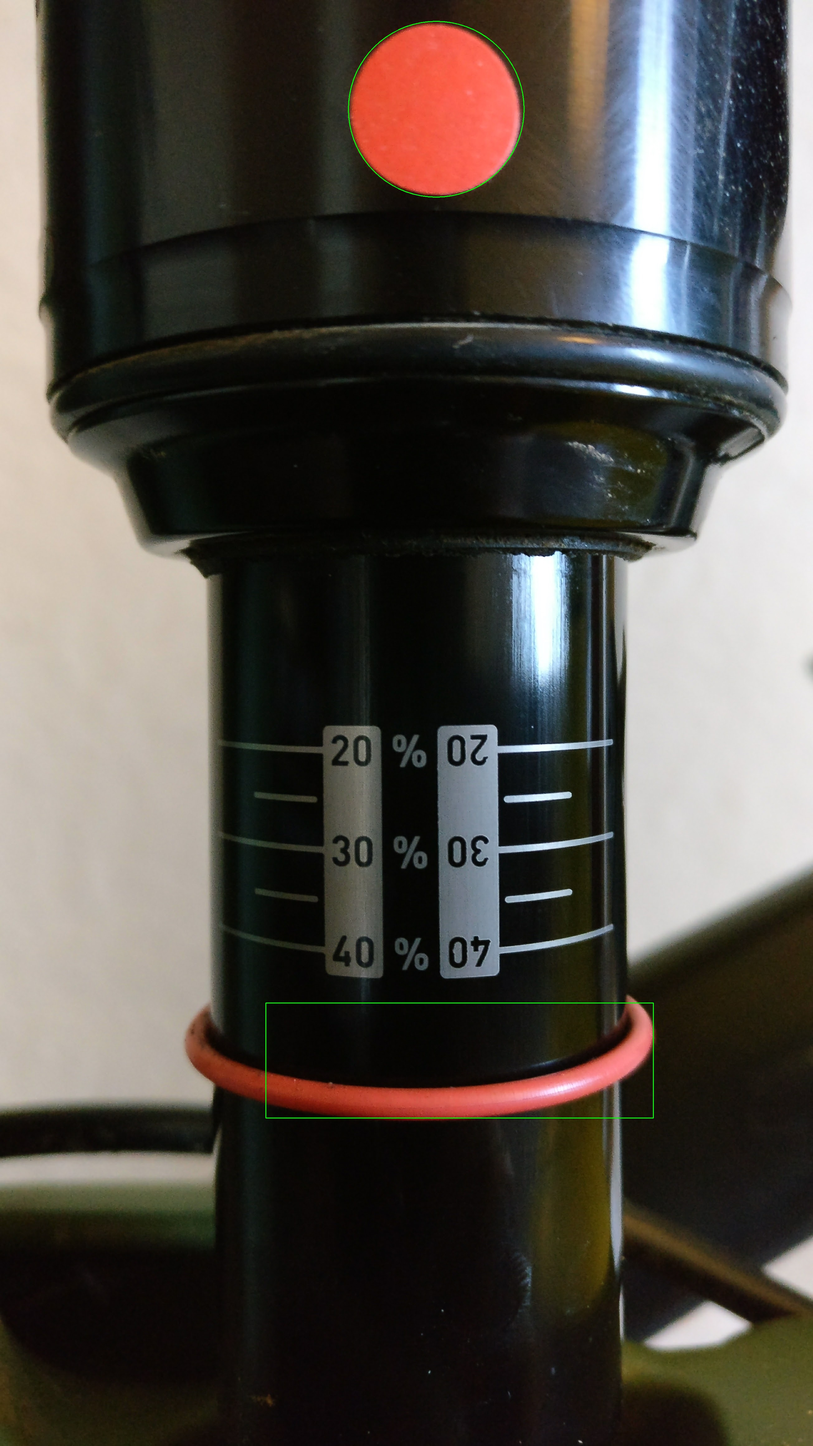
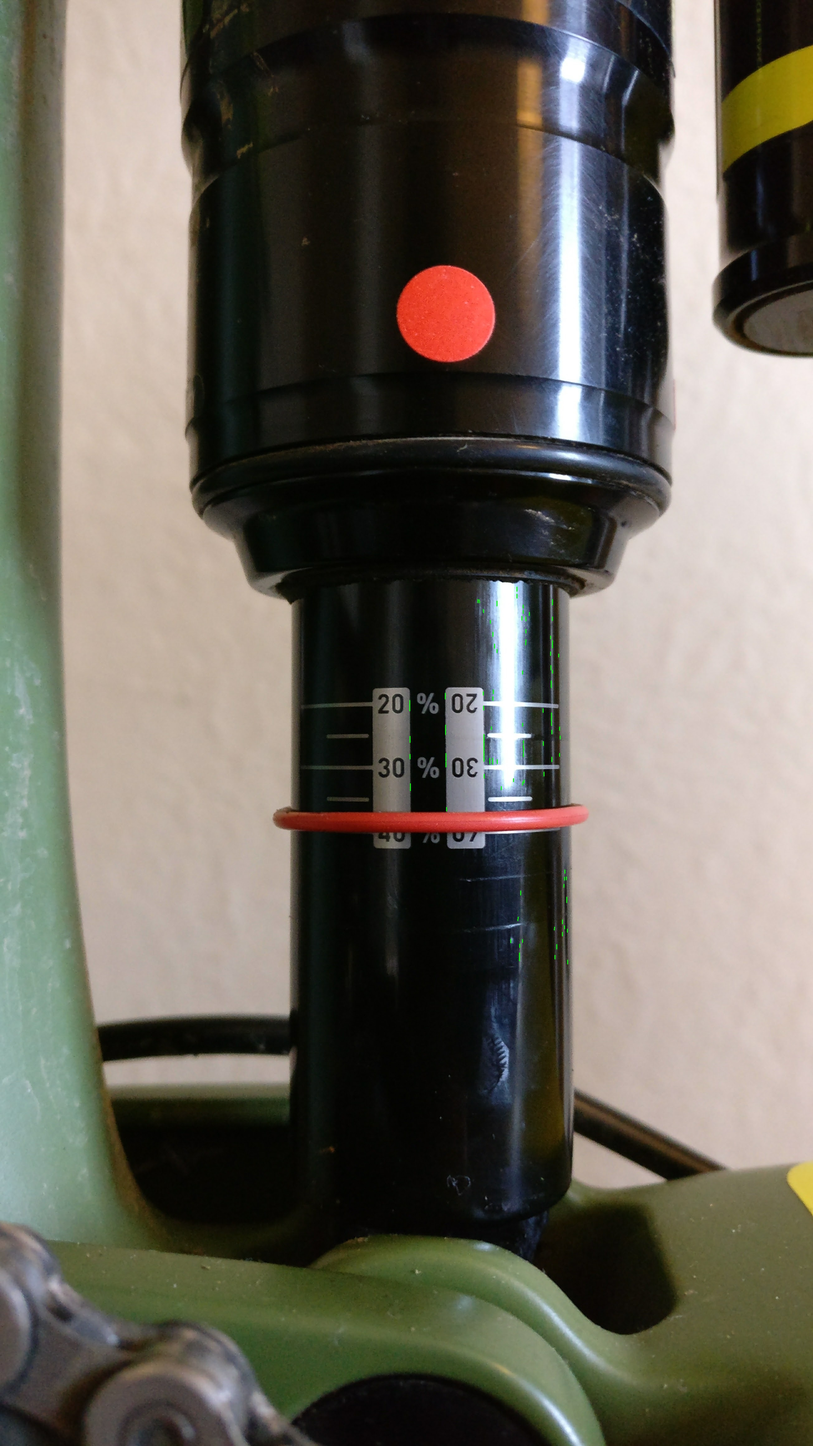
Small adjustments for improved measuring

diff --git a/testing_scripts/measure.py b/testing_scripts/measure.py
@@ -9,11 +9,11 @@ def show_image(image, wait_time):
     except cv2.error as e:
         print e.message
 
-image = cv2.imread('../images/100_ref_new.jpg')
+image = cv2.imread('../images/150_ref_new.jpg')
 gray_scaled = cv2.cvtColor(image, cv2.COLOR_BGR2GRAY)
 blurred = cv2.GaussianBlur(gray_scaled, (5, 5), 0)
-edged = cv2.Canny(blurred, 0, 100, apertureSize=3)
-
+edged = cv2.Canny(blurred, 10, 90, apertureSize=3)
+cv2.imwrite('edged.jpg', edged)
 min_line_length = 1000
 max_line_gap = 10
 
@@ -30,5 +30,4 @@ for x1, y1, x2, y2 in lines[0]:
         y_min = min(y1, y_min)
         y_max = max(y2, y_max)
         cv2.line(image, (x1, y1), (x2, y2), (0,255,0), 2)
-print y_max - y_min
 cv2.imwrite('output.jpg',image)

diff --git a/program/image_processor.py b/program/image_processor.py
@@ -17,7 +17,7 @@ def show_image(image, wait_time):
 
 
 class ImageProcessor:
-    REF_POINT_KNOWN_WIDTH = 10.0
+    REF_POINT_KNOWN_WIDTH = 9.5
     image_path = None
     edged_image = None
     quantified_image = None
@@ -33,7 +33,7 @@ class ImageProcessor:
         image = cv2.imread(self.image_path)
         gray_scaled = cv2.cvtColor(image, cv2.COLOR_BGR2GRAY)
         blurred = cv2.GaussianBlur(gray_scaled, (5, 5), 0)
-        edged = cv2.Canny(blurred, 0, 100, apertureSize=3)
+        edged = cv2.Canny(blurred, 10, 90, apertureSize=3)
         return edged
 
     def _quantify_colors(self):

diff --git a/program/main.py b/program/main.py
@@ -58,8 +58,8 @@ def main():
     pressure_calculator.measurement_100 = image_processor.get_measurement(args.image[0])
     image_processor = ImageProcessor(args.debug)
     pressure_calculator.measurement_150 = image_processor.get_measurement(args.image[1])
-    #pressure_calculator.measurement_100 = 29.0
-    #pressure_calculator.measurement_150 = 21.0
+    #pressure_calculator.measurement_100 = 30.0
+    #pressure_calculator.measurement_150 = 20.0
     print pressure_calculator.calculate()
 
 if __name__ == '__main__':
